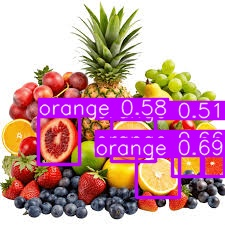
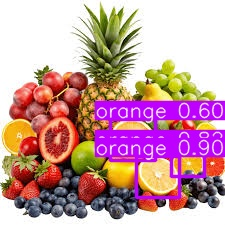
add try another image buttton

diff --git a/frontend/src/App.jsx b/frontend/src/App.jsx
@@ -38,7 +38,8 @@ const { getRootProps, getInputProps, isDragActive } = useDropzone({
       alert("Please select an image first.");
       return;
     }
-
+   
+setSuccessMessage("");
     setLoading(true);
 
     const formData = new FormData();
@@ -63,6 +64,13 @@ const { getRootProps, getInputProps, isDragActive } = useDropzone({
 
     setLoading(false);
   };
+ const resetAnalysis = () => {
+  setFile(null);
+  setPreview(null);
+  setResult(null);
+  setDetectedImage(null);
+  setSuccessMessage("");
+};
 
   const groupedDetections = {};
 
@@ -175,7 +183,14 @@ const { getRootProps, getInputProps, isDragActive } = useDropzone({
           )}
         </div>
       )}
-
+{result && (
+  <button
+    className="try-again-btn"
+    onClick={resetAnalysis}
+  >
+     Try Another Image
+  </button>
+)}
       <div className="results-container">
         {Object.entries(groupedDetections).map(([name, details]) => (
           <div key={name} className="result-card fade-in">

diff --git a/frontend/src/App.css b/frontend/src/App.css
@@ -282,6 +282,31 @@ body {
 
   box-shadow: 0 6px 20px rgba(0, 0, 0, 0.25);
 }
+.try-again-btn {
+  margin-top: 20px;
+  padding: 12px 24px;
+
+  border: none;
+  border-radius: 12px;
+
+  background: rgba(255, 255, 255, 0.1);
+  color: white;
+
+  backdrop-filter: blur(10px);
+
+  cursor: pointer;
+
+  font-size: 16px;
+  font-weight: 600;
+
+  transition: all 0.3s ease;
+}
+
+.try-again-btn:hover {
+  transform: translateY(-2px);
+
+  background: rgba(255, 255, 255, 0.2);
+}
 
 .result-image {
   width: 350px;

diff --git a/backend/predictor.py b/backend/predictor.py
@@ -2,7 +2,7 @@ from ultralytics import YOLO
 import os
 
 # Load YOLO model
-model = YOLO("yolov8l.pt")
+model = YOLO("yolov8m.pt")
 
 def detect_objects(image_path):
     results = model(
